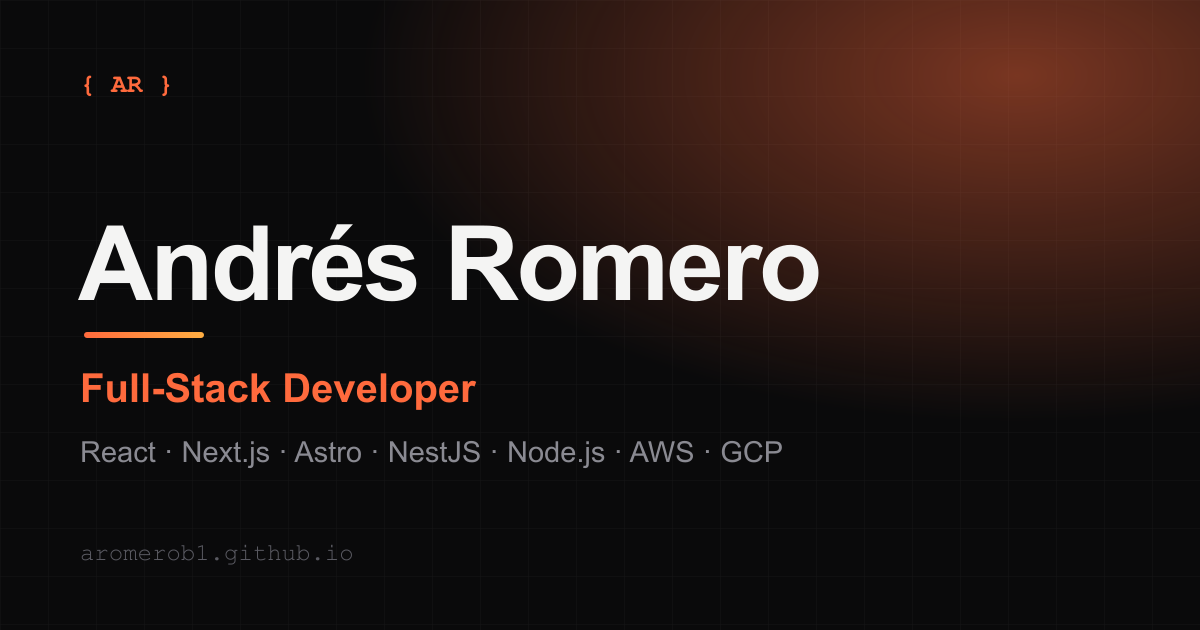
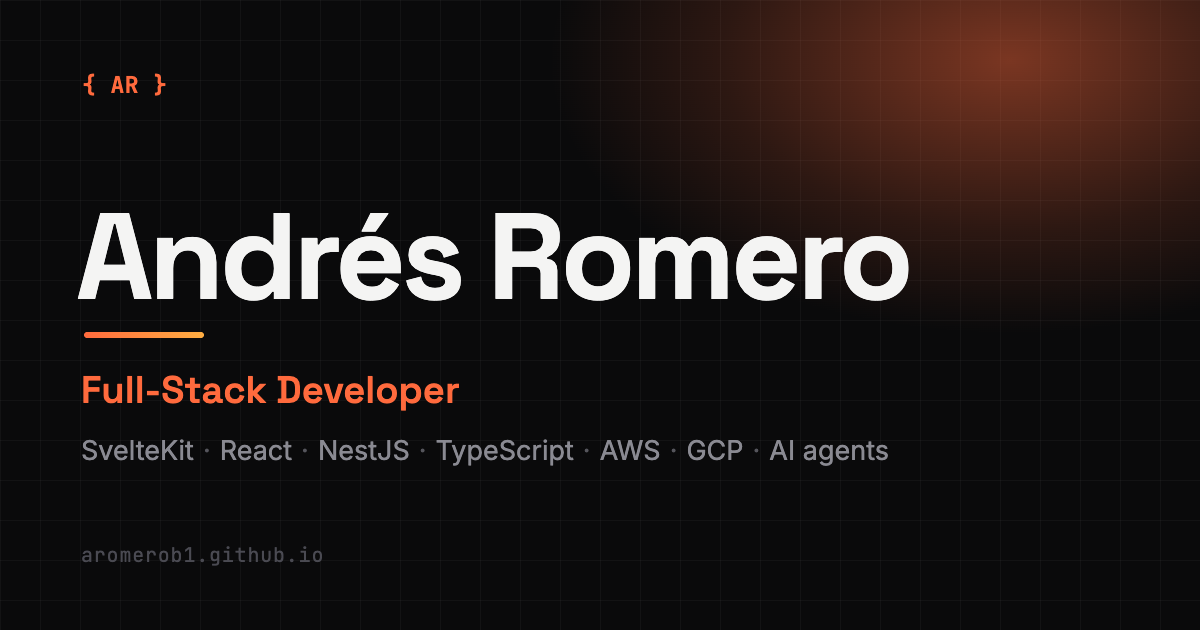
Refresh social preview image and write a real README
og.png now leads with SvelteKit and uses the site's own fonts; its
source is kept in tools/og.html. README replaces the Vite template.

diff --git a/tools/og.html b/tools/og.html
@@ -1,0 +1,22 @@
+<!doctype html><html><head><meta charset="utf-8">
+<link href="https://fonts.googleapis.com/css2?family=Inter:wght@400;500;600&family=Space+Grotesk:wght@500;600;700&family=JetBrains+Mono:wght@400;500;700&display=swap" rel="stylesheet">
+<style>
+*{margin:0;padding:0;box-sizing:border-box}
+html,body{width:1200px;height:630px;overflow:hidden;background:#0a0a0b}
+.c{position:relative;width:1200px;height:630px;background:#0a0a0b;color:#f4f4f3;font-family:Inter,system-ui,sans-serif}
+.grid{position:absolute;inset:0;background-image:linear-gradient(rgba(255,255,255,.035) 1px,transparent 1px),linear-gradient(90deg,rgba(255,255,255,.035) 1px,transparent 1px);background-size:40px 40px}
+.glow{position:absolute;inset:0;background:radial-gradient(ellipse 640px 380px at 1010px 60px,rgba(255,106,61,.46),rgba(255,106,61,.14) 45%,transparent 72%)}
+.ar{position:absolute;left:82px;top:70px;font-family:"JetBrains Mono",monospace;font-weight:700;font-size:23px;color:#ff6a3d;letter-spacing:.02em}
+h1{position:absolute;left:76px;top:196px;font-family:"Space Grotesk",sans-serif;font-weight:700;font-size:122px;letter-spacing:-.035em;line-height:1}
+.bar{position:absolute;left:84px;top:332px;width:120px;height:6px;border-radius:3px;background:linear-gradient(90deg,#ff6a3d,#ffae42)}
+.role{position:absolute;left:81px;top:366px;font-family:"Space Grotesk",sans-serif;font-weight:600;font-size:38px;color:#ff6a3d}
+.stack{position:absolute;left:81px;top:434px;font-size:27px;color:#8a8a92;white-space:nowrap}
+.stack i{font-style:normal;color:#55555c;margin:0 9px}
+.url{position:absolute;left:81px;top:542px;font-family:"JetBrains Mono",monospace;font-size:20px;color:#4a4a52;letter-spacing:.04em}
+</style></head><body><div class="c"><div class="grid"></div><div class="glow"></div>
+<div class="ar">{ AR }</div>
+<h1>Andrés Romero</h1><div class="bar"></div>
+<div class="role">Full-Stack Developer</div>
+<div class="stack">SvelteKit<i>·</i>React<i>·</i>NestJS<i>·</i>TypeScript<i>·</i>AWS<i>·</i>GCP<i>·</i>AI agents</div>
+<div class="url">aromerob1.github.io</div>
+</div></body></html>

diff --git a/README.md b/README.md
@@ -1,32 +1,57 @@
-# React + TypeScript + Vite
+# aromerob1.github.io
 
-This template provides a minimal setup to get React working in Vite with HMR and some Oxlint rules.
+Personal portfolio of Andrés Romero — full-stack developer (SvelteKit, React, NestJS, TypeScript, AWS & GCP, LLMs and AI agents).
 
-Currently, two official plugins are available:
+Live at **https://aromerob1.github.io**
 
-- [@vitejs/plugin-react](https://github.com/vitejs/vite-plugin-react/blob/main/packages/plugin-react) uses [Oxc](https://oxc.rs)
-- [@vitejs/plugin-react-swc](https://github.com/vitejs/vite-plugin-react/blob/main/packages/plugin-react-swc) uses [SWC](https://swc.rs/)
+## Stack
 
-## React Compiler
+- [Vite](https://vite.dev) + [React 19](https://react.dev) + TypeScript
+- [Tailwind CSS 4](https://tailwindcss.com)
+- [Framer Motion](https://www.framer.com/motion/) for animations
+- [Oxlint](https://oxc.rs) for linting
+- Hosted on GitHub Pages
 
-The React Compiler is not enabled on this template because of its impact on dev & build performances. To add it, see [this documentation](https://react.dev/learn/react-compiler/installation).
+## Project structure
 
-## Expanding the Oxlint configuration
-
-If you are developing a production application, we recommend enabling type-aware lint rules by installing `oxlint-tsgolint` and editing `.oxlintrc.json`:
-
-```json
-{
-  "$schema": "./node_modules/oxlint/configuration_schema.json",
-  "plugins": ["react", "typescript", "oxc"],
-  "options": {
-    "typeAware": true
-  },
-  "rules": {
-    "react/rules-of-hooks": "error",
-    "react/only-export-components": ["warn", { "allowConstantExport": true }]
-  }
-}
+```
+index.html            Meta tags (description, Open Graph, Twitter card)
+src/data.ts           All the content: about, experience, projects, skills, links
+src/components/       One component per section (Hero, About, Experience, Projects, Skills, Contact…)
+src/index.css         Design tokens (colors, fonts) and global styles
+public/               Static files: CV (PDF), og.png, project screenshots
+tools/og.html         Source of the social preview image (public/og.png)
 ```
 
-See the [Oxlint rules documentation](https://oxc.rs/docs/guide/usage/linter/rules) for the full list of rules and categories.
+To change what the site says, edit `src/data.ts` — the components only render it.
+
+## Development
+
+```bash
+npm ci --include=dev
+npm run dev       # local dev server
+npm run lint      # oxlint
+npm run build     # type-check + production build into dist/
+npm run preview   # serve the production build locally
+```
+
+If your shell exports `NODE_ENV=production`, install with `NODE_ENV=development npm ci --include=dev`, otherwise the dev dependencies (TypeScript, Vite) are skipped.
+
+## Deployment
+
+The source lives on the `source` branch. GitHub Pages serves the `gh-pages` branch, which only holds the built output.
+
+```bash
+NODE_ENV=production npm run deploy
+```
+
+This builds the site and pushes `dist/` to `gh-pages`. Pages takes about a minute to pick it up. Build with `NODE_ENV=production`; a development build ships a larger, unoptimized bundle.
+
+## Social preview image
+
+`public/og.png` (1200×630) is a screenshot of `tools/og.html`. To regenerate it, open that file in a browser at a 1200×630 viewport, take a screenshot and save it over `public/og.png`.
+
+## Notes
+
+- The Finny dashboard screenshot (`public/finny-dashboard.webp`) uses sample data, not real figures.
+- The CV served at `/Andres-Romero-CV.pdf` is `public/Andres-Romero-CV.pdf`; replace the file to update it.
